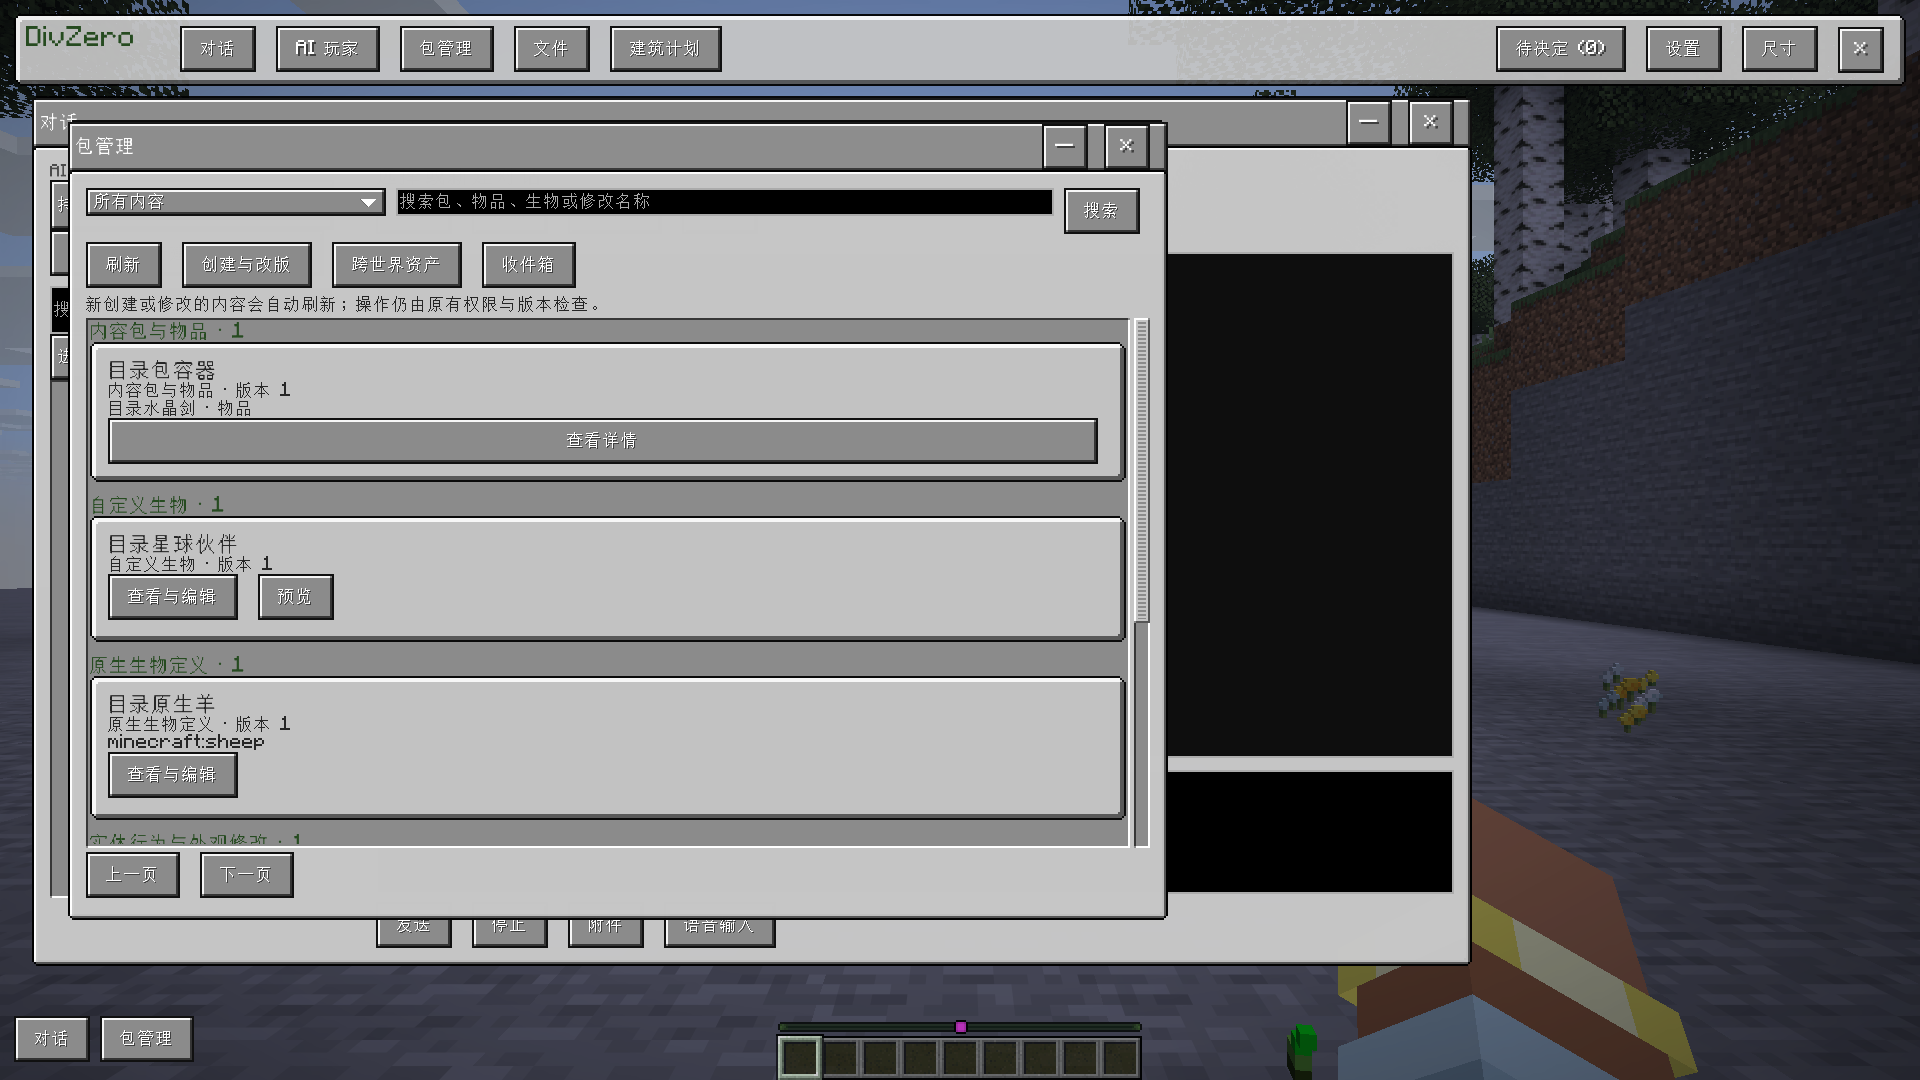
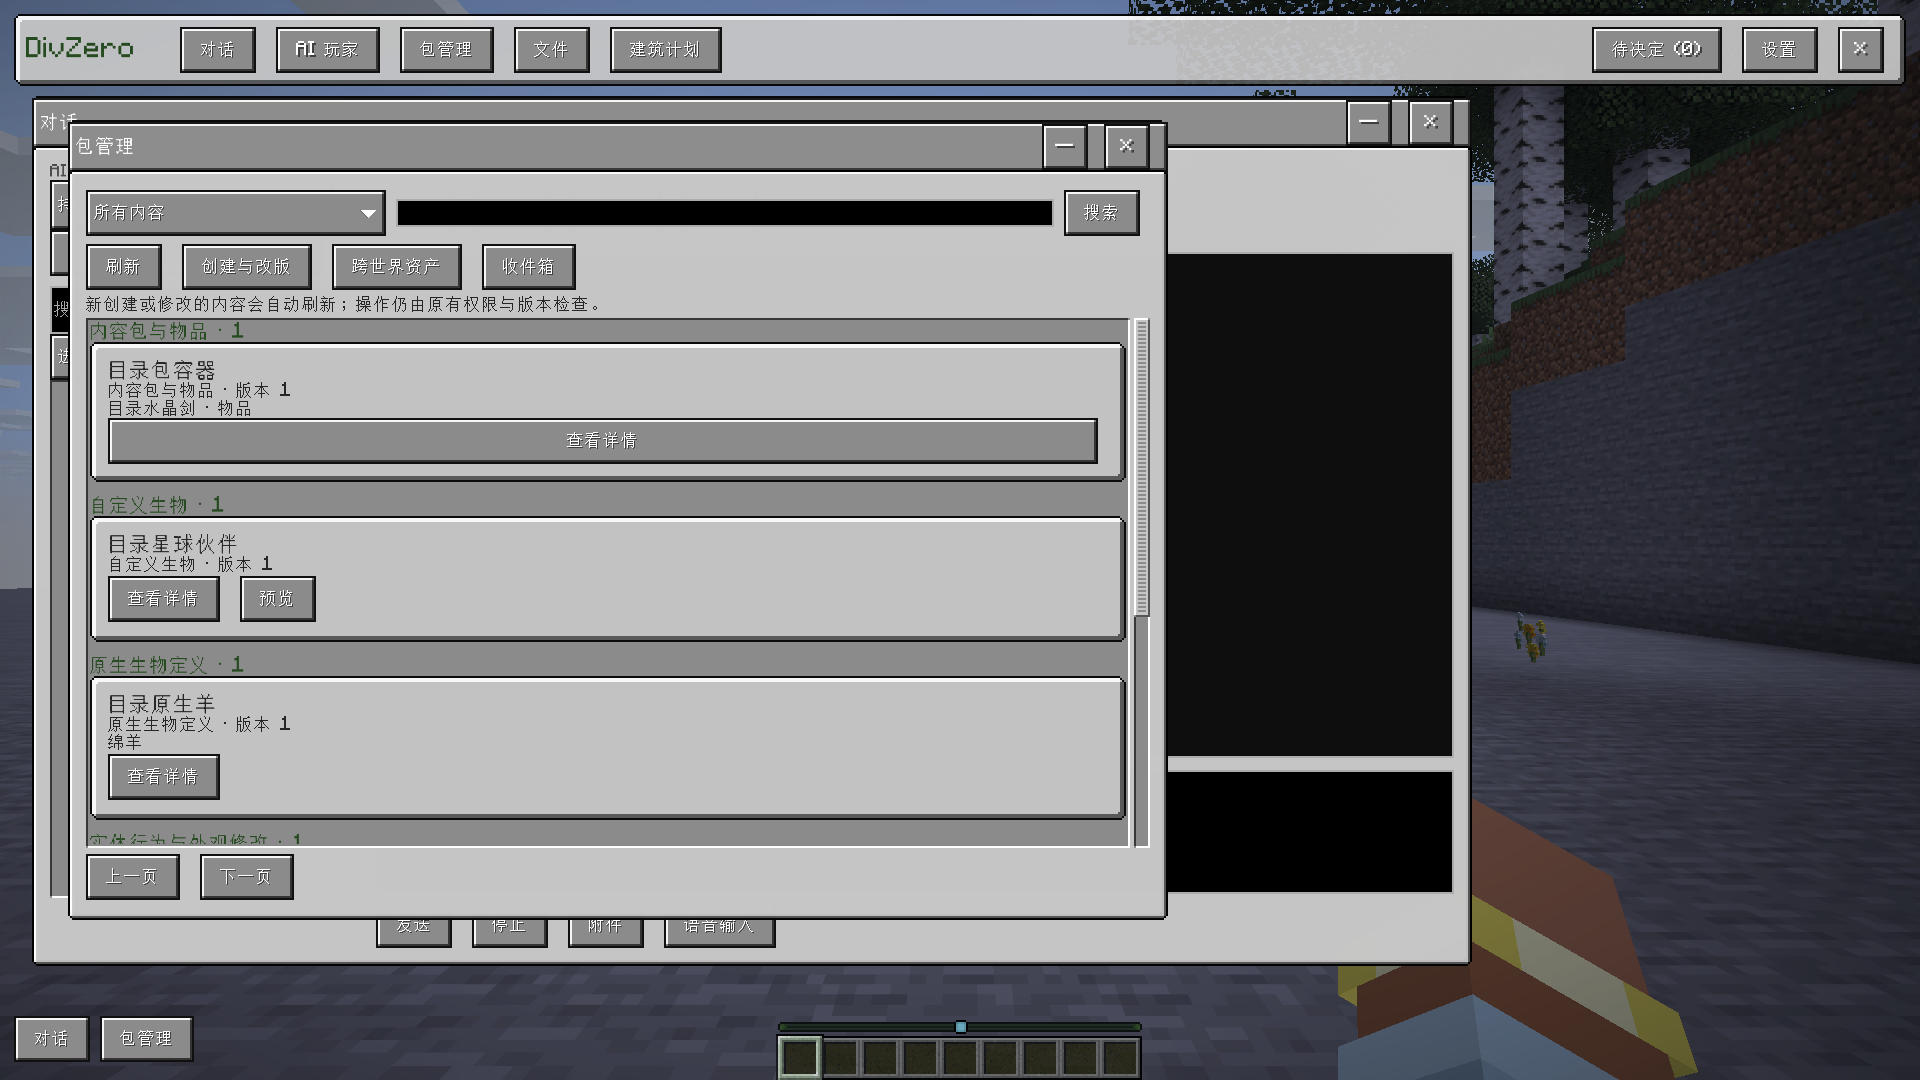
Finalize verified UI screenshots and preserve authored input hints

diff --git a/neoforge/src/main/java/dev/mineagent/runtime/neoforge/client/nativeui/NativeModulesSmokeClient.java b/neoforge/src/main/java/dev/mineagent/runtime/neoforge/client/nativeui/NativeModulesSmokeClient.java
@@ -48,7 +48,7 @@ public final class NativeModulesSmokeClient {
     @SubscribeEvent public static void tick(ClientTickEvent.Post event){if(result==null||result.isDone())return;try{
         if(++ticks>(design?18000:3000))throw new IllegalStateException("MODULE_UI_TIMEOUT_"+stage);if(ticks%100==0)java.nio.file.Files.writeString(Minecraft.getInstance().gameDirectory.toPath().resolve("module-ui-progress.json"),new Gson().toJson(Map.of("stage",stage,"ticks",ticks,"checks",checks,"focused",Minecraft.getInstance().isWindowActive())));if(busy||!NativeWorkspaceConnection.ready()||!(Minecraft.getInstance().screen instanceof NativeWorkspaceScreen))return;
         switch(stage){
-            case 500->{if(++wait<10)return;var toolbar=find(host().smokeRoot(),"workspace-toolbar");var brand=find(host().smokeRoot(),"workspace-brand");require(toolbar!=null&&brand!=null,"WORKSPACE_BRAND_MISSING");require(Math.abs(brand.getPositionY()+brand.getSizeHeight()/2-toolbar.getPositionY()-toolbar.getSizeHeight()/2)<=1.1,"WORKSPACE_BRAND_NOT_CENTERED");require(!hasText(toolbar,"尺寸")&&!hasText(toolbar,"界面尺寸"),"SCALE_CONTROL_STILL_ON_PRIMARY_TOOLBAR");NativeGenerationPanel.open(host());next("brand-centered-and-scale-removed-from-toolbar");}
+            case 500->{if(++wait<10)return;var placeholder=new TextField();placeholder.textFieldStyle(style->style.placeholder(net.minecraft.network.chat.Component.literal("保留自定义提示")));NativeUiTheme.controls(placeholder);require(placeholder.getTextFieldStyle().getValueImmediate(com.lowdragmc.lowdraglib2.gui.ui.style.PropertyRegistry.PLACEHOLDER).getString().equals("保留自定义提示"),"AUTHORED_PLACEHOLDER_WAS_CLEARED");var toolbar=find(host().smokeRoot(),"workspace-toolbar");var brand=find(host().smokeRoot(),"workspace-brand");require(toolbar!=null&&brand!=null,"WORKSPACE_BRAND_MISSING");require(Math.abs(brand.getPositionY()+brand.getSizeHeight()/2-toolbar.getPositionY()-toolbar.getSizeHeight()/2)<=1.1,"WORKSPACE_BRAND_NOT_CENTERED");require(!hasText(toolbar,"尺寸")&&!hasText(toolbar,"界面尺寸"),"SCALE_CONTROL_STILL_ON_PRIMARY_TOOLBAR");NativeGenerationPanel.open(host());next("brand-centered-and-scale-removed-from-toolbar");}
             case 501->{if(++wait<10)return;var selector=find(host().smokeRoot(),"generation-category");require(selector!=null&&selector.getSizeWidth()>=96&&selector.getSizeHeight()>=23,"SELECTOR_SHRANK_BELOW_READABLE_SIZE");var candidates=new ArrayList<Button>();buttons(host().smokeRoot(),"创建内容",candidates);require(candidates.stream().anyMatch(button->button.getPositionX()>=selector.getPositionX()+selector.getSizeWidth()),"SELECTOR_OVERLAPS_ADJACENT_CONTROL");screenshot("selector-layout");WorkspacePanels.settings(host());next("selector-does-not-overlap-create-button");}
             case 502->{if(++wait<25)return;var fields=find(host().smokeRoot(),"settings-fields");var footer=find(host().smokeRoot(),"settings-footer");if(!(fields instanceof ScrollerView scroll)||footer==null)return;require(scroll.viewPort.getContentHeight()>=25,"SETTINGS_CONTENT_HAS_NO_USABLE_HEIGHT");require(footer.getPositionY()+footer.getSizeHeight()<=host().height-20,"SETTINGS_FOOTER_OUTSIDE_VIEW");scroll.verticalScroller.setNormalizedValue(1);next("settings-viewport-scrolls-with-visible-footer");}
             case 503->{if(++wait<8)return;screenshot("compact-settings");if(click("界面尺寸"))next("scale-opens-from-settings-submenu");}

diff --git a/neoforge/src/main/java/dev/mineagent/runtime/neoforge/client/nativeui/WorkspacePanels.java b/neoforge/src/main/java/dev/mineagent/runtime/neoforge/client/nativeui/WorkspacePanels.java
@@ -23,7 +23,7 @@ final class WorkspacePanels {
         if(!Set.of(Code.OBSERVED,Code.APPLIED,Code.ACCEPTED,Code.OK).contains(receipt.code())||!receipt.values().getOrDefault("errorCode","").isBlank())throw new IllegalStateException(receipt.values().getOrDefault("errorCode",receipt.code().name()));return receipt;
     });}
     static JsonObject state(Receipt receipt){return JsonParser.parseString(receipt.values().getOrDefault("state","{}")).getAsJsonObject();}
-    static UIElement row(){var r=new UIElement(){@Override public UIElement addChild(UIElement child){if(child instanceof Selector<?> selector){selector.getLayout().minWidth(96).minHeight(23).height(23);selector.preview.getLayout().minWidth(0);selector.preview.getStyle().clip(com.lowdragmc.lowdraglib2.gui.ui.data.Clip.SCISSOR);}if(child!=null&&child.hasClass("divzero-flow-text"))child.getLayout().widthAuto().minWidth(0).flex(1);return super.addChild(child);}};r.getLayout().flexDirection(FlexDirection.ROW).alignItems(dev.vfyjxf.taffy.style.AlignItems.CENTER).widthPercent(100).gapAll(5);return r;}
+    static UIElement row(){var r=new UIElement(){@Override public UIElement addChild(UIElement child){if(child instanceof TextField field)field.getLayout().height(23).minHeight(23);if(child instanceof Selector<?> selector){selector.getLayout().minWidth(96).minHeight(23).height(23);selector.preview.getLayout().minWidth(0);selector.preview.getStyle().clip(com.lowdragmc.lowdraglib2.gui.ui.data.Clip.SCISSOR);}if(child!=null&&child.hasClass("divzero-flow-text"))child.getLayout().widthAuto().minWidth(0).flex(1);return super.addChild(child);}};r.getLayout().flexDirection(FlexDirection.ROW).alignItems(dev.vfyjxf.taffy.style.AlignItems.CENTER).widthPercent(100).gapAll(5);return r;}
     static TextElement text(String value){var text=NativeUiTheme.text(value,NativeUiTheme.TEXT,9);text.addClass("divzero-flow-text");return text;}
     static ScrollerView scroller(UIElement parent){var list=new ScrollerView();list.getLayout().widthPercent(100).flex(1);parent.addChild(list);return list;}
     static UIElement card(ScrollerView parent,String title){var card=NativeUiTheme.card(new UIElement());card.getLayout().widthPercent(100).marginBottom(7);card.addChild(NativeUiTheme.text(title,NativeUiTheme.TEXT,11));parent.addScrollViewChild(card);return card;}

diff --git a/neoforge/src/main/java/dev/mineagent/runtime/neoforge/client/nativeui/NativeUiTheme.java b/neoforge/src/main/java/dev/mineagent/runtime/neoforge/client/nativeui/NativeUiTheme.java
@@ -43,8 +43,8 @@ public final class NativeUiTheme {
         if(root instanceof Button button)NativeButtonFeedback.install(button);
         if(!root.hasClass("divzero-control-style")){
             root.addClass("divzero-control-style");
-            if(root instanceof TextField field){field.textFieldStyle(s->s.textColor(0xffffffff));if((field.getTextFieldStyle().placeholder().getString().equals("Empty")||field.getTextFieldStyle().placeholder().equals(Component.translatable("text_field.empty"))))field.textFieldStyle(s->s.placeholder(Component.empty()));}
-            else if(root instanceof TextArea area)area.textAreaStyle(s->s.textColor(0xffffffff).placeholder(Component.empty()));
+            if(root instanceof TextField field){field.textFieldStyle(s->s.textColor(0xffffffff));if(field.getTextFieldStyle().getValueImmediate(PropertyRegistry.PLACEHOLDER).equals(Component.translatable("text_field.empty")))field.textFieldStyle(s->s.placeholder(Component.empty()));}
+            else if(root instanceof TextArea area){area.textAreaStyle(s->s.textColor(0xffffffff));if(area.getTextAreaStyle().getValueImmediate(PropertyRegistry.PLACEHOLDER).equals(Component.translatable("text_field.empty")))area.textAreaStyle(s->s.placeholder(Component.empty()));}
             else if(root instanceof ProgressBar progress)progress.bar.getStyle().backgroundTexture(new ColorRectTexture(0xff6d9b31));
         }
         for(var child:root.getChildren())controls(child);

diff --git a/docs/native-workspace-integration.md b/docs/native-workspace-integration.md
@@ -58,7 +58,7 @@
 
[1 lines of base64/hex data omitted]
 
-另保留 `516c13ff-c19b-43df-abdf-d1d6c4fd3d58` 的恢复操作等待超时。已修复备份预览的后台只读刷新会阻止立即提交恢复的问题，需在最新界面中复验。上述验证不表示早先完整产品规格中的其他未完项已经完成。
+另保留 `516c13ff-c19b-43df-abdf-d1d6c4fd3d58` 的恢复操作等待超时。已修复备份预览的后台只读刷新会阻止立即提交恢复的问题，最新界面复验结果见下文。上述验证不表示早先完整产品规格中的其他未完项已经完成。
 
 
 ## 最新界面复验
@@ -66,3 +66,8 @@
 public `480f0c6` / Actions `36682941583` 的隔离运行 `741d9d76-70a1-46cf-805d-025994e5fd55` 通过尺寸 4 布局及图形化报告检查，截图已复查；恢复卡片改为可读的 MC 浅色面板。`42f492af-91ae-4461-afe1-d15c699fe9b2` 再次通过实际恢复、冲突保留、撤销、重做及其他模块的完整按钮流程，之前的后台刷新竞争路径也得到覆盖。
 
 `f73b5939-4323-44f2-8c02-14c6bca01362` 的尺度菜单测试失败时游戏窗口已失焦，按钮按既定规则取消了点击；测试现在只在窗口实际获得焦点时提交点击，首次仅请求激活自己的测试窗口，产品的失焦规则不变。
+
+更新后的 public `4229f36` 再以 `21f9d4f3-067b-4e62-8f39-0fe267d53061` 通过同一内容目录验证，图文中的目录截图已替换为尺寸入口迁移后的新布局。
+
+
+会话与背包综合回归 `15870941-eac5-4a91-8779-24badc51113a`（public `48cd619` / Actions `36686561756`）通过会话切换、分页、下拉松开选择、设置内的尺寸入口、输入法及焦点稳定、真实库存／盔甲、Shift／数字键／拆分／拖拽、原生命令补全和建筑验证。失败的 `abfeec6a-34f6-4306-9561-d0d152953a83` 与 `f794023b-cd63-4d8a-bee9-bd5da2be35c1` 保留：数字键测试改为等待实际原生槽位悬停，并使用原生窗口坐标发送鼠标移动回调，未修改库存业务逻辑来绕过检查。

diff --git a/docs/images/README.md b/docs/images/README.md
@@ -56,12 +56,12 @@
 
 ## 1.0.23 界面修复
 
-这两张为本轮较早的回归截图；最新尺寸入口和布局见下方“包管理与紧凑界面补齐”。
+这两张已更新为 2026-09-30 最后一次会话与原生背包回归的画面。
 
 | 图片 | 实际场景 | SHA-256 |
 |---|---|---|
[4 lines of base64/hex data omitted]
 
 ## 包管理与紧凑界面补齐
 
@@ -72,4 +72,4 @@
[5 lines of base64/hex data omitted]

diff --git a/docs/FEATURES.md b/docs/FEATURES.md
@@ -280,6 +280,9 @@ This player-facing guide covers the current public `main`, with conversation exa
 
 Native AI inventory uses ordinary container click, Shift, number-key, split-stack and drag handling, including actual armor and held items. Dropdown layering/focus and fixed labels are repaired; GUI scale 2/3/4 keeps drafts. Native give/tp accepts unique AI display names without changing identity. New worlds use one participation choice. Known no-effect building rejections return actionable tool results so correction can continue; uncertain writes still require inspection. See [acceptance coverage](COUNTERATTACK_UI_FUNCTIONS.md) for native group combat and UI tests.
 
+Package management additionally lists standalone creatures, native entity definitions, behavior/appearance rules, interaction rules and this player's block textures. Search includes names of contained item definitions. New content appears while the manager remains open. Normal details and recovery reports use readable cards; source code stays in explicit advanced editing. Settings uses a separate scrolling area and fixed action row, with scale controls under Settings. See [workspace evidence](native-workspace-integration.md).
+
+
 ## Your model makes a major difference
 
 **The final results depend heavily on the capabilities of your chosen model.** Complex construction, creature design, multi-step planning, and tool use can vary substantially between models. For better results, consider newer, more capable models from the Claude, Grok, or GPT families through an API compatible with the mod. Compatibility, pricing, and actual performance depend on the service you choose.

diff --git a/README.md b/README.md
@@ -175,6 +175,13 @@ Through natural language interaction, world awareness, persistent memory, and dy
 
 The public source is now the **1.0.23 candidate**, covering native inventory interaction, dropdowns, GUI scale 4, display-name commands, recoverable building errors and group-combat acceptance. Requirements: **Minecraft 26.1.2 · NeoForge 26.1.2.106 · Java 25**, **protocol 11**. Keep clients and servers on the same mod version. Published builds remain on [Releases](https://github.com/gaoshanliuni/divzero/releases); candidate pushes do not publish a release. [Implementation and acceptance](docs/COUNTERATTACK_UI_FUNCTIONS.md).
 
+Package management now refreshes live and includes items, creature definitions and persistent vanilla changes. Compact settings keep a scrollable body and visible actions; GUI scale is under Settings. Recovery reports show readable states, positions and native block comparisons. [Workspace integration and game evidence](docs/native-workspace-integration.md).
+
+![Compact settings at GUI scale 4](docs/images/native-settings-scale-four.png)
+
+![Readable recovery report](docs/images/native-recovery-report.png)
+
+
 ## Native LDLib2 workspace and persistent skills
 
 **1.0.20** uses LDLib2 with the MC theme. DivZero builds the built-in F2 workspace directly, without requiring KubeJS. KubeJS builds AI-created interfaces with live updates, rollback on invalid structure changes and retained input. Passive HUDs leave game input available. HTML/CSS/DOM packages require explicit migration.
